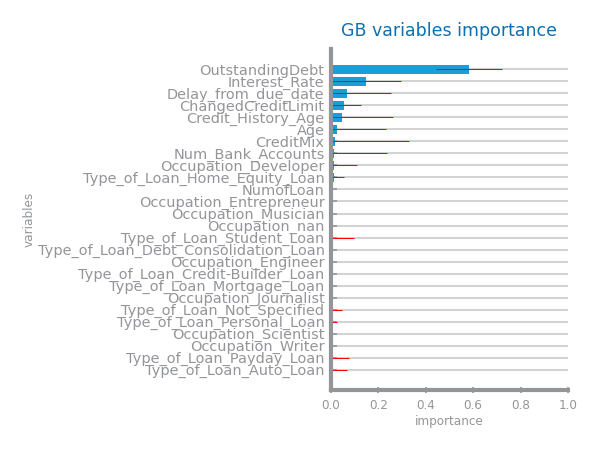
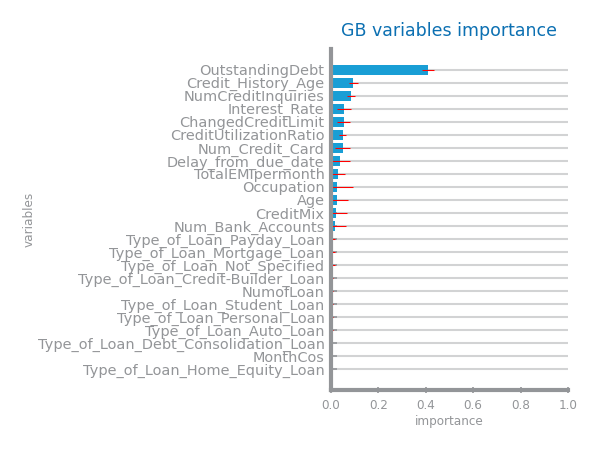
Updated plots of RF, GB and MLP.

Changed region(s): [[0.06, 0.1244, 0.96, 0.84]]

diff --git a/utils/dslabs_functions.py b/utils/dslabs_functions.py
@@ -33,7 +33,7 @@ from sklearn.tree import DecisionTreeClassifier
 from statsmodels.tsa.arima_model import ARIMA
 from statsmodels.tsa.stattools import adfuller
 
-from forecasting.models.DS_LSTM import DS_LSTM, prepare_dataset_for_lstm
+#from forecasting.models.DS_LSTM import DS_LSTM, prepare_dataset_for_lstm
 from forecasting.models.RollingMeanRegressor import RollingMeanRegressor
 from utils.config import ACTIVE_COLORS, LINE_COLOR, FILL_COLOR, cmap_blues
 
@@ -1034,52 +1034,52 @@ def arima_study(train: Series, test: Series, measure: str = "R2"):
 
     return best_model, best_params
 
-def lstm_study(train, test, nr_episodes: int = 1000, measure: str = "R2"):
-    sequence_size = [2, 4, 8]
-    nr_hidden_units = [25, 50, 100]
-
-    step: int = nr_episodes // 10
-    episodes = [1] + list(range(0, nr_episodes + 1, step))[1:]
-    flag = measure == "R2" or measure == "MAPE"
-    best_model = None
-    best_params: dict = {"name": "LSTM", "metric": measure, "params": ()}
-    best_performance: float = -100000
-
-    _, axs = subplots(1, len(sequence_size), figsize=(len(sequence_size) * HEIGHT, HEIGHT))
-
-    for i in range(len(sequence_size)):
-        length = sequence_size[i]
-        tstX, tstY = prepare_dataset_for_lstm(test, seq_length=length)
-
-        values = {}
-        for hidden in nr_hidden_units:
-            yvalues = []
-            model = DS_LSTM(train, hidden_size=hidden)
-            for n in range(0, nr_episodes + 1):
-                model.fit()
-                if n % step == 0:
-                    prd_tst = model.predict(tstX)
-                    eval: float = FORECAST_MEASURES[measure](test[length:], prd_tst)
-                    print(f"seq length={length} hidden_units={hidden} nr_episodes={n}", eval)
-                    if eval > best_performance and abs(eval - best_performance) > DELTA_IMPROVE:
-                        best_performance: float = eval
-                        best_params["params"] = (length, hidden, n)
-                        best_model = deepcopy(model)
-                    yvalues.append(eval)
-            values[hidden] = yvalues
-        plot_multiline_chart(
-            episodes,
-            values,
-            ax=axs[i],
-            title=f"LSTM seq length={length} ({measure})",
-            xlabel="nr episodes",
-            ylabel=measure,
-            percentage=flag,
-        )
-    print(
-        f"LSTM best results achieved with length={best_params["params"][0]} hidden_units={best_params["params"][1]} and nr_episodes={best_params["params"][2]}) ==> measure={best_performance:.2f}"
-    )
-    return best_model, best_params
+# def lstm_study(train, test, nr_episodes: int = 1000, measure: str = "R2"):
+#     sequence_size = [2, 4, 8]
+#     nr_hidden_units = [25, 50, 100]
+#
+#     step: int = nr_episodes // 10
+#     episodes = [1] + list(range(0, nr_episodes + 1, step))[1:]
+#     flag = measure == "R2" or measure == "MAPE"
+#     best_model = None
+#     best_params: dict = {"name": "LSTM", "metric": measure, "params": ()}
+#     best_performance: float = -100000
+#
+#     _, axs = subplots(1, len(sequence_size), figsize=(len(sequence_size) * HEIGHT, HEIGHT))
+#
+#     for i in range(len(sequence_size)):
+#         length = sequence_size[i]
+#         tstX, tstY = prepare_dataset_for_lstm(test, seq_length=length)
+#
+#         values = {}
+#         for hidden in nr_hidden_units:
+#             yvalues = []
+#             model = DS_LSTM(train, hidden_size=hidden)
+#             for n in range(0, nr_episodes + 1):
+#                 model.fit()
+#                 if n % step == 0:
+#                     prd_tst = model.predict(tstX)
+#                     eval: float = FORECAST_MEASURES[measure](test[length:], prd_tst)
+#                     print(f"seq length={length} hidden_units={hidden} nr_episodes={n}", eval)
+#                     if eval > best_performance and abs(eval - best_performance) > DELTA_IMPROVE:
+#                         best_performance: float = eval
+#                         best_params["params"] = (length, hidden, n)
+#                         best_model = deepcopy(model)
+#                     yvalues.append(eval)
+#             values[hidden] = yvalues
+#         plot_multiline_chart(
+#             episodes,
+#             values,
+#             ax=axs[i],
+#             title=f"LSTM seq length={length} ({measure})",
+#             xlabel="nr episodes",
+#             ylabel=measure,
+#             percentage=flag,
+#         )
+#     print(
+#         f"LSTM best results achieved with length={best_params["params"][0]} hidden_units={best_params["params"][1]} and nr_episodes={best_params["params"][2]}) ==> measure={best_performance:.2f}"
+#     )
+#     return best_model, best_params
 
 def naive_Bayes_study(trnX, trnY, tstX, tstY, metric='accuracy', file_tag='', subtitle='', ax=None):
     estimators = {

diff --git a/forecasting/models/DS_LSTM.py b/forecasting/models/DS_LSTM.py
@@ -1,47 +1,47 @@
-from torch import no_grad
-from torch.nn import LSTM, Linear, Module, MSELoss
-from torch.optim import Adam
-from torch.utils.data import DataLoader, TensorDataset
-
-
-def prepare_dataset_for_lstm(series, seq_length: int = 4):
-    setX: list = []
-    setY: list = []
-    for i in range(len(series) - seq_length):
-        past = series[i: i + seq_length]
-        future = series[i + 1: i + seq_length + 1]
-        setX.append(past)
-        setY.append(future)
-    return tensor(setX), tensor(setY)
-
-
-class DS_LSTM(Module):
-    def __init__(self, train, input_size: int = 1, hidden_size: int = 50, num_layers: int = 1, length: int = 4):
-        super().__init__()
-        self.lstm = LSTM(input_size=input_size, hidden_size=hidden_size, num_layers=num_layers, batch_first=True)
-        self.linear = Linear(hidden_size, 1)
-        self.optimizer = Adam(self.parameters())
-        self.loss_fn = MSELoss()
-
-        trnX, trnY = prepare_dataset_for_lstm(train, seq_length=length)
-        self.loader = DataLoader(TensorDataset(trnX, trnY), shuffle=True, batch_size=len(train) // 10)
-
-    def forward(self, x):
-        x, _ = self.lstm(x)
-        x = self.linear(x)
-        return x
-
-    def fit(self):
-        self.train()
-        for batchX, batchY in self.loader:
-            y_pred = self(batchX)
-            loss = self.loss_fn(y_pred, batchY)
-            self.optimizer.zero_grad()
-            loss.backward()
-            self.optimizer.step()
-        return loss
-
-    def predict(self, X):
-        with no_grad():
-            y_pred = self(X)
-        return y_pred[:, -1, :]
+# from torch import no_grad, tensor
+# from torch.nn import LSTM, Linear, Module, MSELoss
+# from torch.optim import Adam
+# from torch.utils.data import DataLoader, TensorDataset
+#
+#
+# def prepare_dataset_for_lstm(series, seq_length: int = 4):
+#     setX: list = []
+#     setY: list = []
+#     for i in range(len(series) - seq_length):
+#         past = series[i: i + seq_length]
+#         future = series[i + 1: i + seq_length + 1]
+#         setX.append(past)
+#         setY.append(future)
+#     return tensor(setX), tensor(setY)
+#
+#
+# class DS_LSTM(Module):
+#     def __init__(self, train, input_size: int = 1, hidden_size: int = 50, num_layers: int = 1, length: int = 4):
+#         super().__init__()
+#         self.lstm = LSTM(input_size=input_size, hidden_size=hidden_size, num_layers=num_layers, batch_first=True)
+#         self.linear = Linear(hidden_size, 1)
+#         self.optimizer = Adam(self.parameters())
+#         self.loss_fn = MSELoss()
+#
+#         trnX, trnY = prepare_dataset_for_lstm(train, seq_length=length)
+#         self.loader = DataLoader(TensorDataset(trnX, trnY), shuffle=True, batch_size=len(train) // 10)
+#
+#     def forward(self, x):
+#         x, _ = self.lstm(x)
+#         x = self.linear(x)
+#         return x
+#
+#     def fit(self):
+#         self.train()
+#         for batchX, batchY in self.loader:
+#             y_pred = self(batchX)
+#             loss = self.loss_fn(y_pred, batchY)
+#             self.optimizer.zero_grad()
+#             loss.backward()
+#             self.optimizer.step()
+#         return loss
+#
+#     def predict(self, X):
+#         with no_grad():
+#             y_pred = self(X)
+#         return y_pred[:, -1, :]

diff --git a/classification/models/credit_score/gradient_boosting.py b/classification/models/credit_score/gradient_boosting.py
@@ -10,7 +10,7 @@ test_filename = "../../data/credit_score/processed_data/class_credit_score_test_
 credit_score_file_tag: str = "class_credit_score"
 target = "Credit_Score"
 
-run_sampling = False
+run_sampling = True
 sampling_amount = 0.01 if run_sampling else 1
 
 trnX, tstX, trnY, tstY, labels, vars = read_train_test_from_files(train_filename, test_filename, target,

diff --git a/classification/models/credit_score/mlp.py b/classification/models/credit_score/mlp.py
@@ -14,7 +14,7 @@ test_filename = "../../data/credit_score/processed_data/class_credit_score_test_
 credit_score_file_tag: str = "class_credit_score"
 target = "Credit_Score"
 
-run_sampling = False
+run_sampling = True
 sampling_amount = 0.01 if run_sampling else 1
 
 trnX, tstX, trnY, tstY, labels, vars = read_train_test_from_files(train_filename, test_filename, target,

diff --git a/classification/models/credit_score/random_forests.py b/classification/models/credit_score/random_forests.py
@@ -13,7 +13,7 @@ test_filename = "../../data/credit_score/processed_data/class_credit_score_test_
 credit_score_file_tag: str = "class_credit_score"
 target = "Credit_Score"
 
-run_sampling = False
+run_sampling = True
 sampling_amount = 0.01 if run_sampling else 1
 
 trnX, tstX, trnY, tstY, labels, vars = read_train_test_from_files(train_filename, test_filename, target,

diff --git a/classification/models/pos_covid/gradient_boosting.py b/classification/models/pos_covid/gradient_boosting.py
@@ -10,7 +10,7 @@ test_filename = "../../data/pos_covid/processed_data/class_pos_covid_test_lowvar
 pos_covid_file_tag: str = "class_pos_covid"
 target = "CovidPos"
 
-run_sampling = False
+run_sampling = True
 sampling_amount = 0.01 if run_sampling else 1
 
 trnX, tstX, trnY, tstY, labels, vars = read_train_test_from_files(train_filename, test_filename, target,

diff --git a/classification/models/pos_covid/mlp.py b/classification/models/pos_covid/mlp.py
@@ -14,7 +14,7 @@ test_filename = "../../data/pos_covid/processed_data/class_pos_covid_test_lowvar
 pos_covid_file_tag: str = "class_pos_covid"
 target = "CovidPos"
 
-run_sampling = False
+run_sampling = True
 sampling_amount = 0.01 if run_sampling else 1
 
 trnX, tstX, trnY, tstY, labels, vars = read_train_test_from_files(train_filename, test_filename, target,

diff --git a/classification/models/pos_covid/random_forests.py b/classification/models/pos_covid/random_forests.py
@@ -13,7 +13,7 @@ test_filename = "../../data/pos_covid/processed_data/class_pos_covid_test_lowvar
 pos_covid_file_tag: str = "class_pos_covid"
 target = "CovidPos"
 
-run_sampling = False
+run_sampling = True
 sampling_amount = 0.01 if run_sampling else 1
 
 trnX, tstX, trnY, tstY, labels, vars = read_train_test_from_files(train_filename, test_filename, target,
